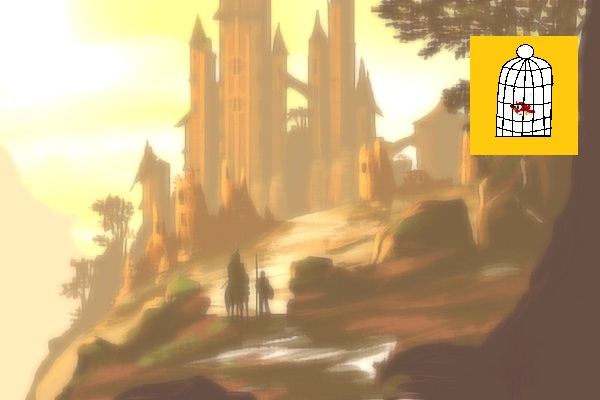
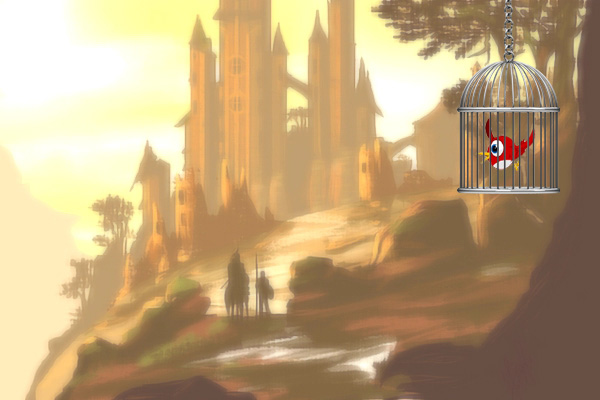
Добавлен дракон, доработана заставка и анимации движения влево

Changed region(s): [[0.75, 0.0, 0.99, 0.51]]

diff --git a/Main.py b/Main.py
@@ -47,7 +47,7 @@ def start_screen():
         if hero.rect.x < SIZE[0] // 3:
             hero.update(2, 0, check_collide=False)
         elif shoot:
-            Bullet(hero.rect.x, hero.rect.y)
+            Bullet(hero.rect.x, hero.rect.y, 'bullet2.png')
             shoot = False
         if bullet_update:
             for elem in bullets_group:
@@ -85,7 +85,7 @@ def start_screen():
 
 
 def create_particles(position):
-    particle_count = 15
+    particle_count = 3
     numbers = range(-5, 6)
     for _ in range(particle_count):
         Particle(position, random.choice(numbers), random.choice(numbers))
@@ -96,6 +96,7 @@ levels_group = pygame.sprite.Group()
 bullets_group = pygame.sprite.Group()
 birds_group = pygame.sprite.Group()
 stars_group = pygame.sprite.Group()
+monster_group = pygame.sprite.Group()
 
 
 class Hero(pygame.sprite.Sprite):
@@ -140,18 +141,49 @@ class Level(pygame.sprite.Sprite):
         self.rect.bottom = SIZE[1]
 
 
+class Monster(pygame.sprite.Sprite):
+    def __init__(self, sheet, columns, rows, x, y):
+        super().__init__(monster_group)
+        self.frames = []
+        self.cut_sheet(sheet, columns, rows)
+        self.cur_frame = 0
+        self.image = self.frames[self.cur_frame]
+        self.rect = self.rect.move(x, y)
+
+    def cut_sheet(self, sheet, columns, rows):
+        self.rect = pygame.Rect(0, 0, sheet.get_width() // columns,
+                                sheet.get_height() // rows)
+        for j in range(rows):
+            for i in range(columns):
+                frame_location = (self.rect.w * i, self.rect.h * j)
+                self.frames.append(sheet.subsurface(pygame.Rect(
+                    frame_location, self.rect.size)))
+
+    def update(self):
+        self.cur_frame = (self.cur_frame + 1) % len(self.frames)
+        self.image = self.frames[self.cur_frame]
+
+
 class Bullet(pygame.sprite.Sprite):
     screen_rect = (0, 0, SIZE[0], SIZE[1])
 
-    def __init__(self, x, y):
+    def __init__(self, x, y, image):
         super().__init__(bullets_group)
-        self.image = load_image('bullet.png')
+        self.image = load_image(image, color_key=-1)
         self.rect = self.image.get_rect()
-        self.rect.x = x + (hero.rect.width // 4) * 3
+        self.direction = hero_direction
+        if self.direction == 'right':
+            self.rect.x = x + (hero.rect.width // 4) * 3
+        else:
+            self.rect.x = x
+            self.image = pygame.transform.flip(self.image, True, False)
         self.rect.y = y + hero.rect.height // 3
 
     def update(self, x=15, y=0):
-        self.rect.x += x
+        if self.direction == 'right':
+            self.rect.x += x
+        else:
+            self.rect.x -= x
         self.rect.y += y
         if not self.rect.colliderect(Bullet.screen_rect):
             self.kill()
@@ -207,15 +239,15 @@ class Particle(pygame.sprite.Sprite):
 
 
 level = Level('first')
+hero_direction = 'right'
 start_y = level.rect.y - level.rect.height - 15
 hero = Hero(load_image("hero.png"), 6, 1, 30, 300)
-
 clock = pygame.time.Clock()
 FPS = 50
 running = True
 start_screen_show = True
 x, y = 0, 0
-
+dragon = Monster(load_image("dragon.png"), 8, 2, 400, 268)
 dy = 0
 
 while running:
@@ -230,8 +262,16 @@ while running:
             running = False
         if event.type == pygame.KEYDOWN:
             if event.key == pygame.K_RIGHT:
+                hero_direction = 'right'
                 x, y = 5, 0
+                x_d, y_d = hero.rect.x, hero.rect.y
+                hero_group = pygame.sprite.Group()
+                hero = Hero(load_image("hero.png"), 6, 1, x_d, y_d)
             if event.key == pygame.K_LEFT:
+                hero_direction = 'left'
+                x_d, y_d = hero.rect.x, hero.rect.y
+                hero_group = pygame.sprite.Group()
+                hero = Hero(load_image("hero_left.png"), 6, 1, x_d, y_d)
                 if dy == 5:
                     x, y = -3, 0
                 else:
@@ -241,7 +281,7 @@ while running:
                     hero.update(0, -95)
                     dy = 5
             if event.key == pygame.K_SPACE:
-                Bullet(hero.rect.x, hero.rect.y)
+                Bullet(hero.rect.x, hero.rect.y, 'bullet.png')
         if event.type == pygame.KEYUP:
             if event.key in (pygame.K_RIGHT, pygame.K_LEFT, pygame.K_UP, pygame.K_DOWN):
                 x, y = 0, 0
@@ -257,8 +297,10 @@ while running:
     hero_group.draw(screen)
     levels_group.draw(screen)
     bullets_group.draw(screen)
-
+    monster_group.draw(screen)
     for bullet in bullets_group:
         bullet.update()
+    for monster in monster_group:
+        monster.update()
     clock.tick(FPS)
     pygame.display.flip()
